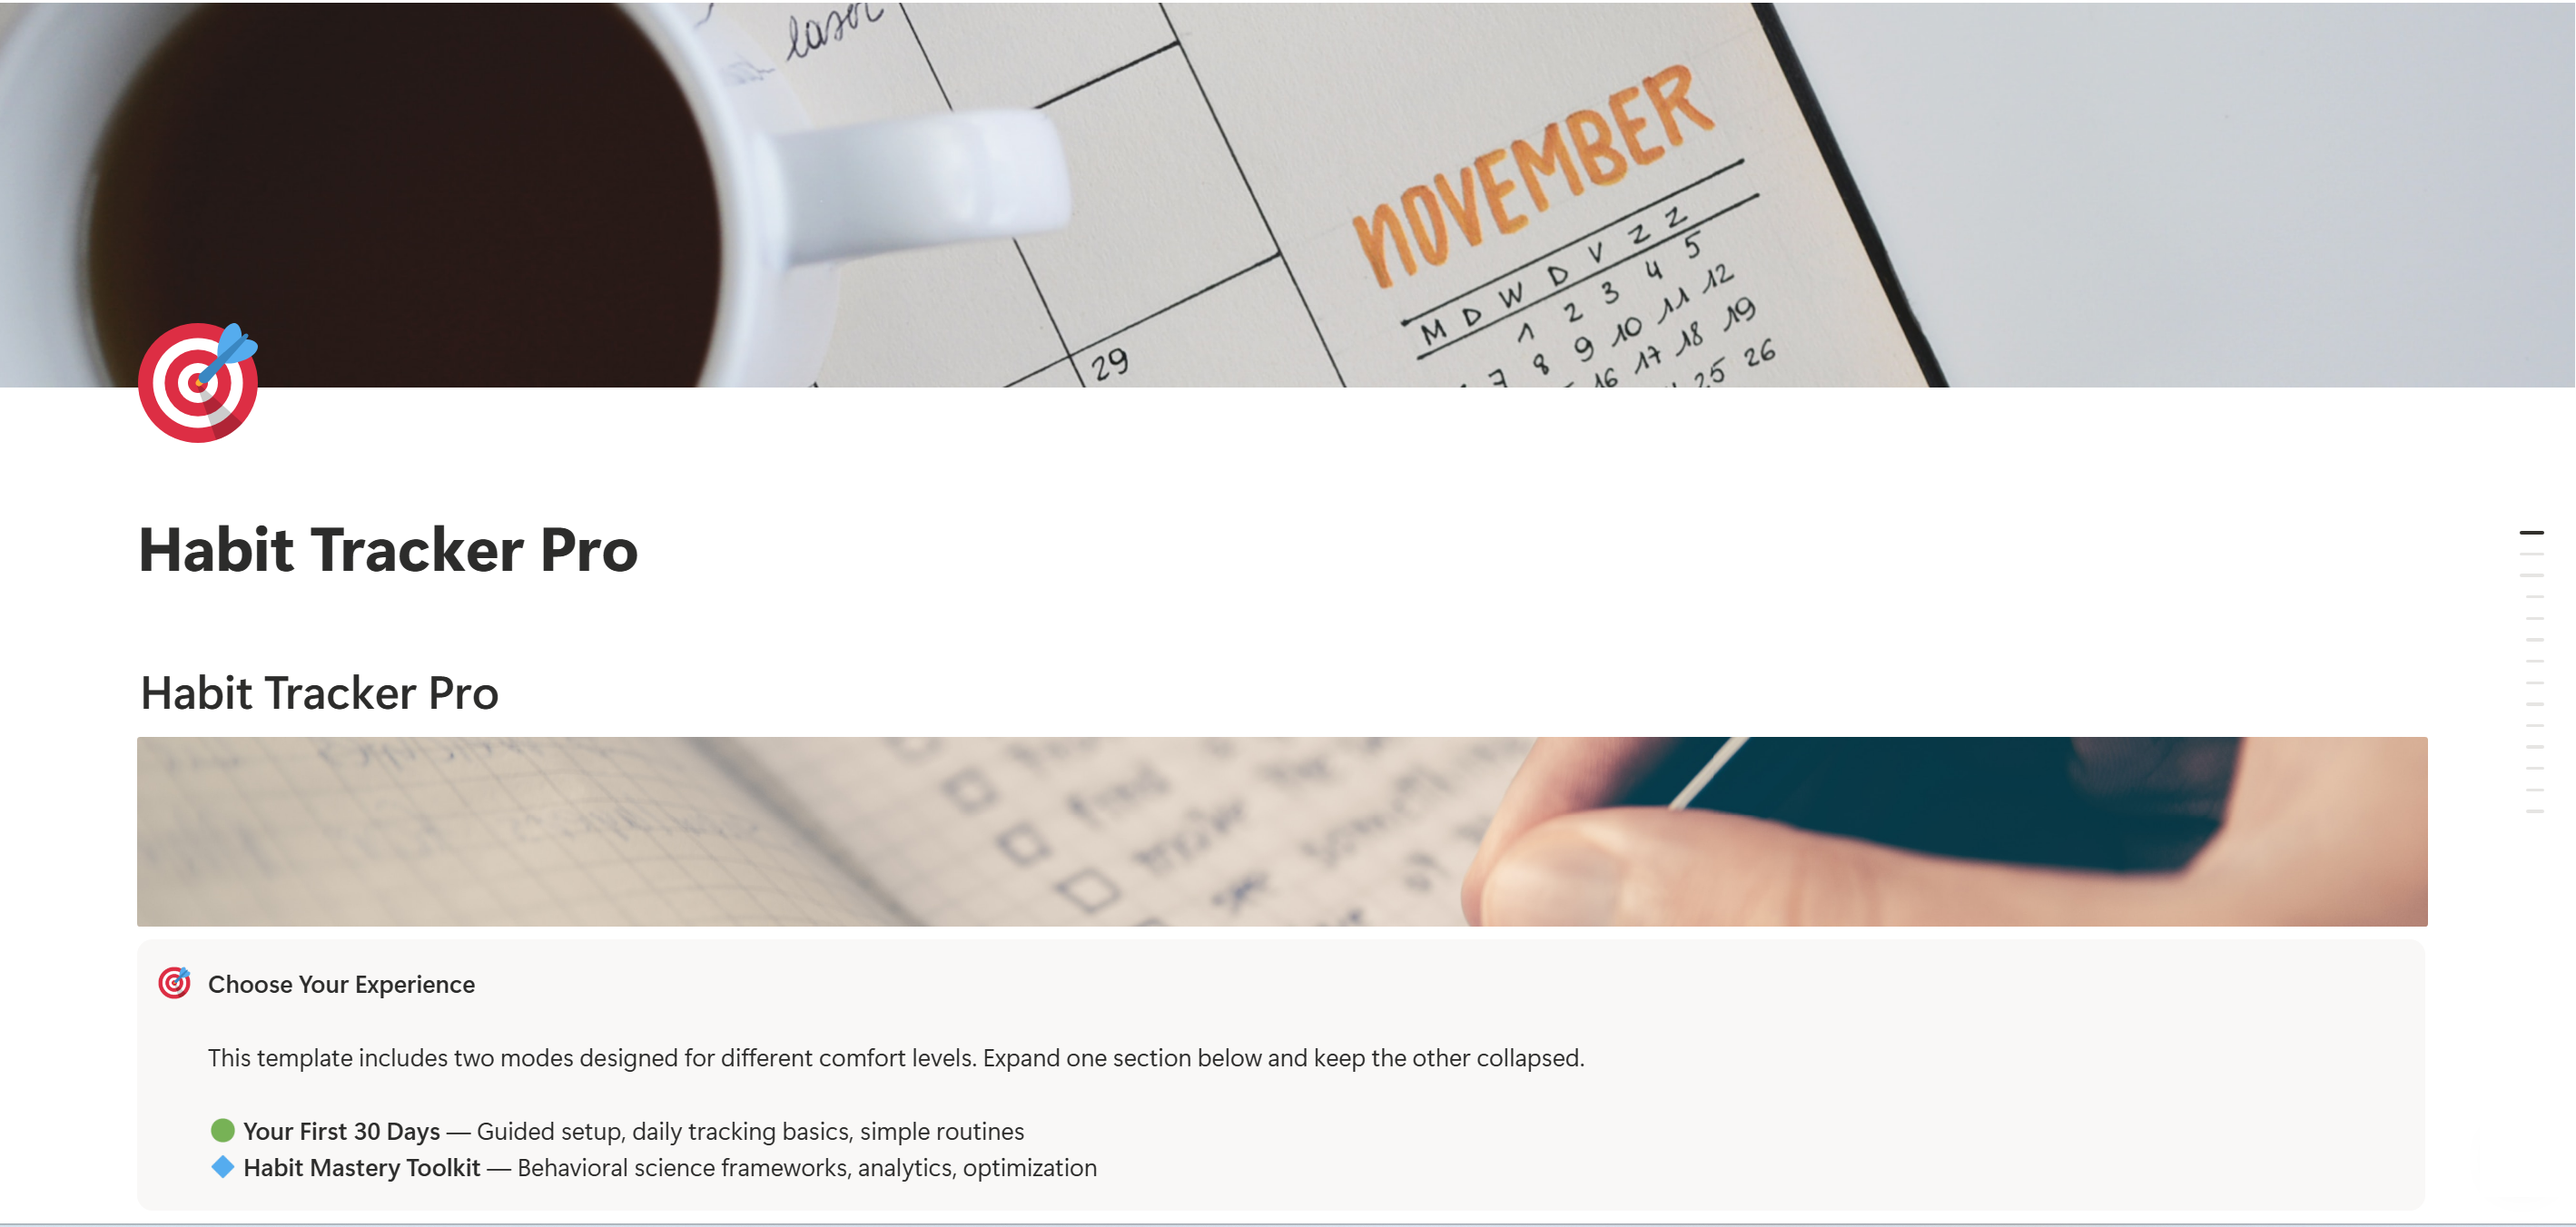
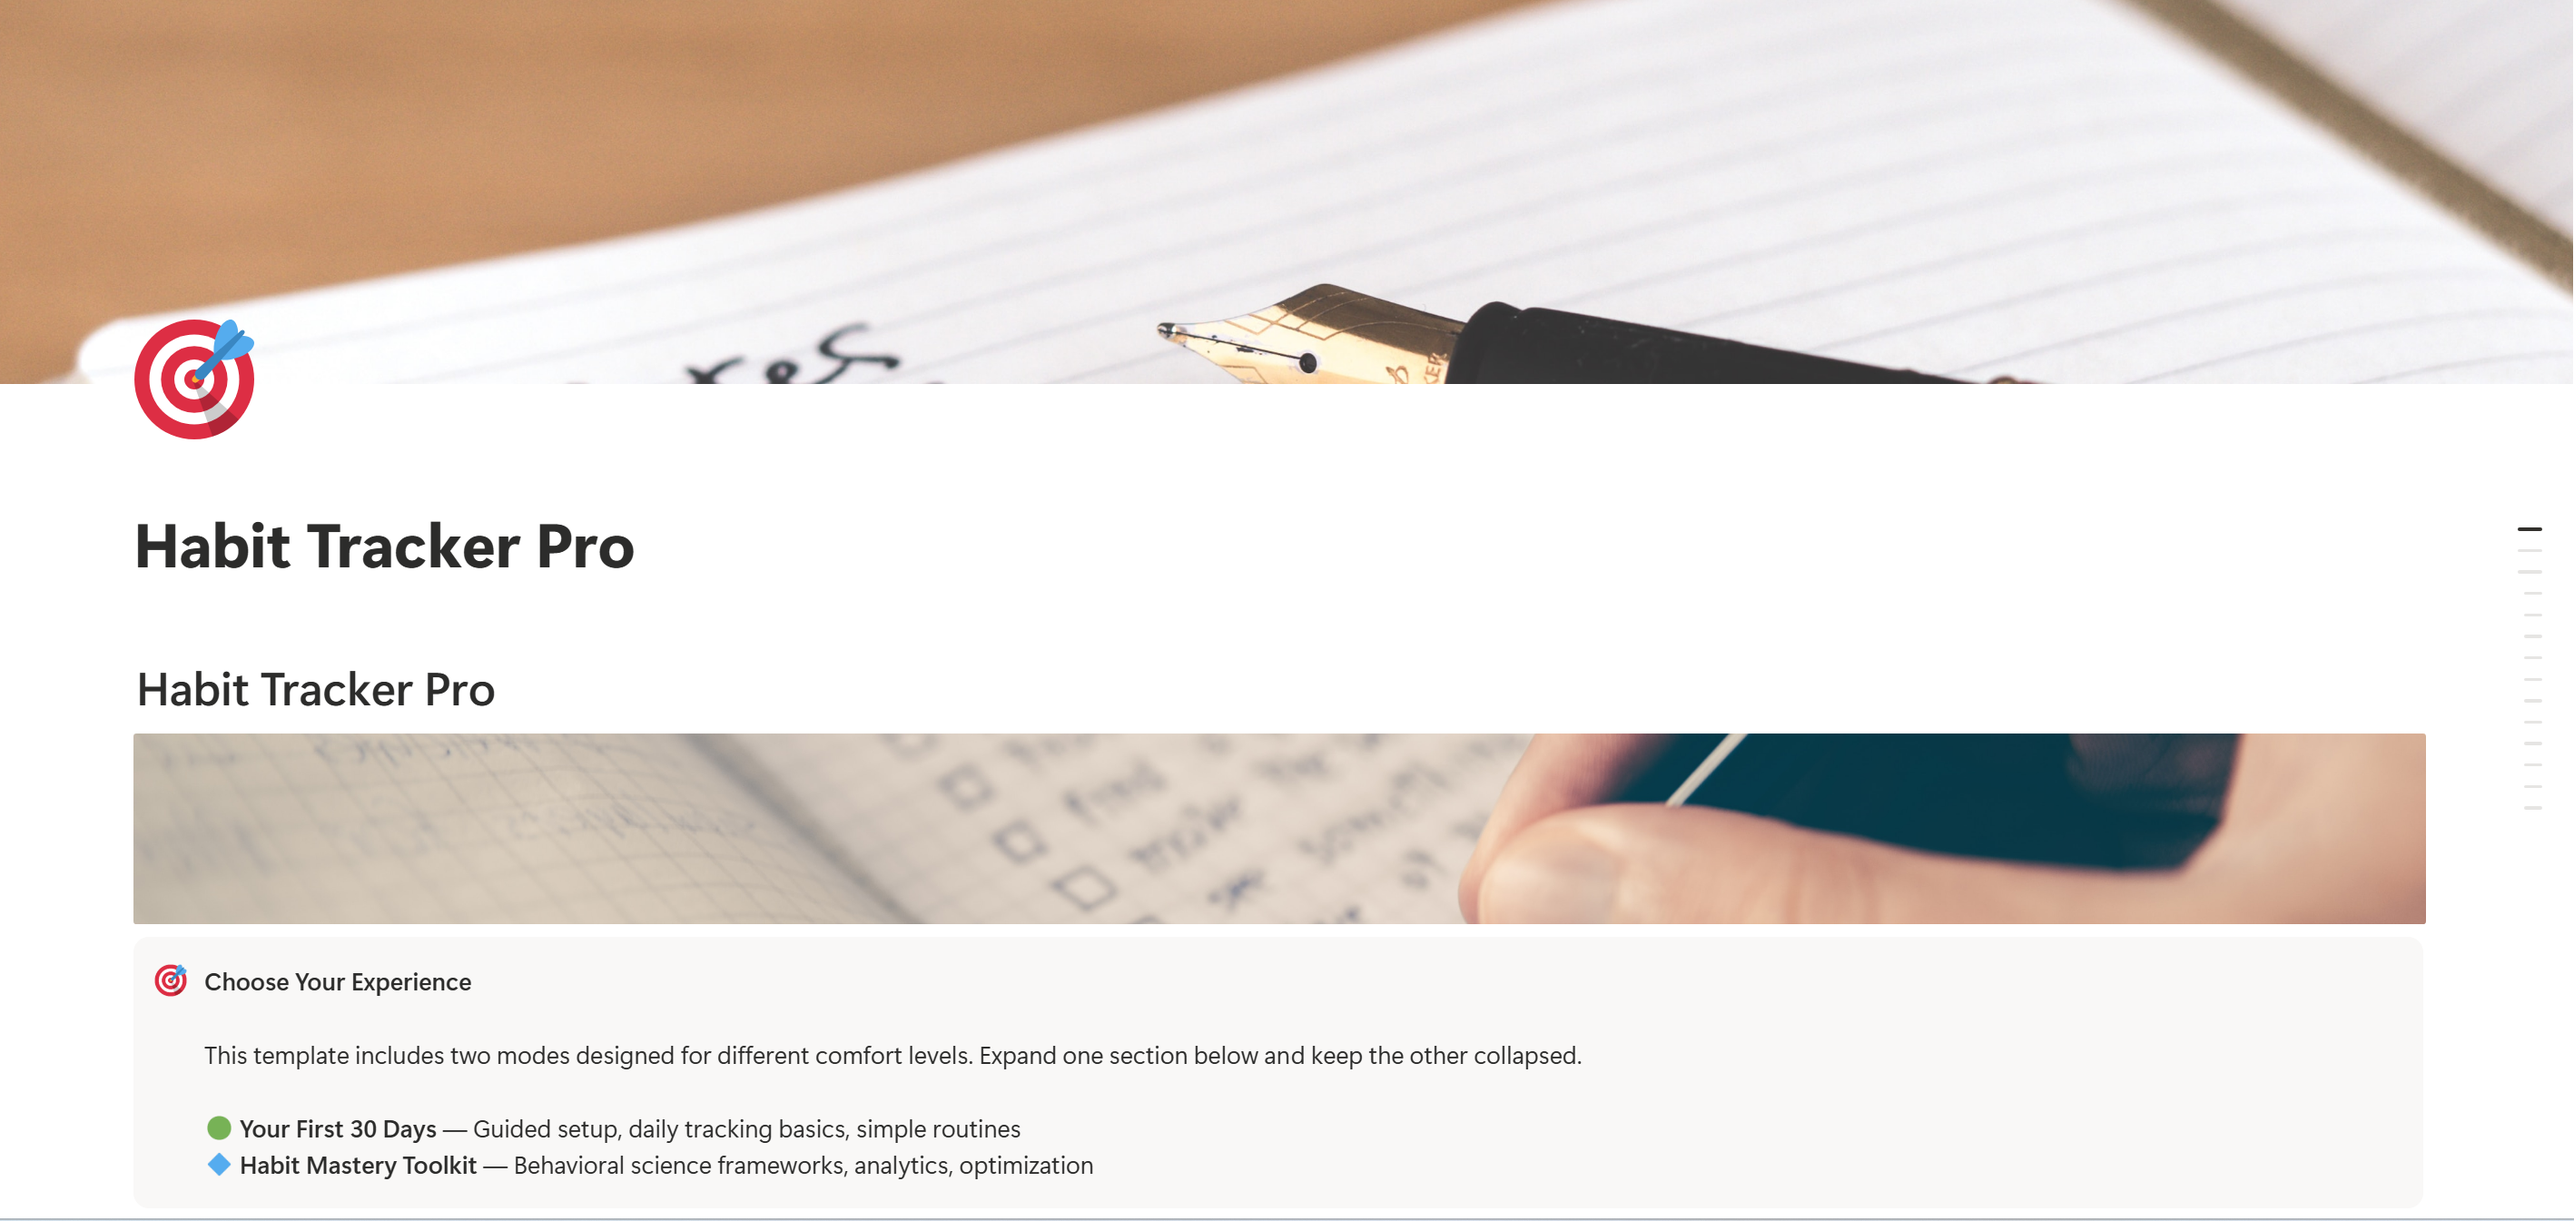
Fix Habit Tracker cover: replace inaccurate calendar with notebook photo

diff --git a/add_graphics.py b/add_graphics.py
@@ -21,7 +21,7 @@ NOTION_VERSION = "2022-06-28"
 # ============================================================
 TEMPLATE_IMAGES = {
     "Habit Tracker Pro": {
-        "cover": "https://images.unsplash.com/photo-1506784983877-45594efa4cbe?w=1500&h=600&fit=crop&crop=center",
+        "cover": "https://images.unsplash.com/photo-1517842645767-c639042777db?w=1500&h=600&fit=crop&crop=center",
         "banner": "https://images.unsplash.com/photo-1484480974693-6ca0a78fb36b?w=1200&h=400&fit=crop&crop=center",
         "icon": "\uD83C\uDFAF",
         "tagline": "Build lasting habits, one day at a time.",
